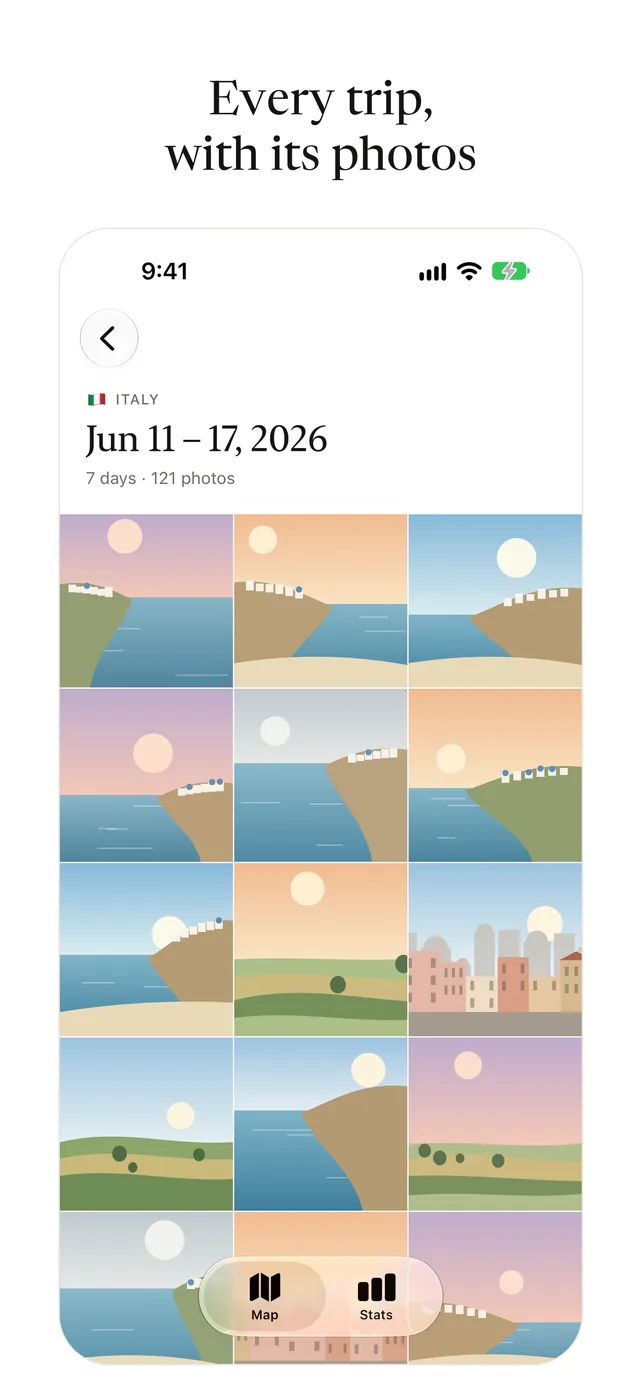
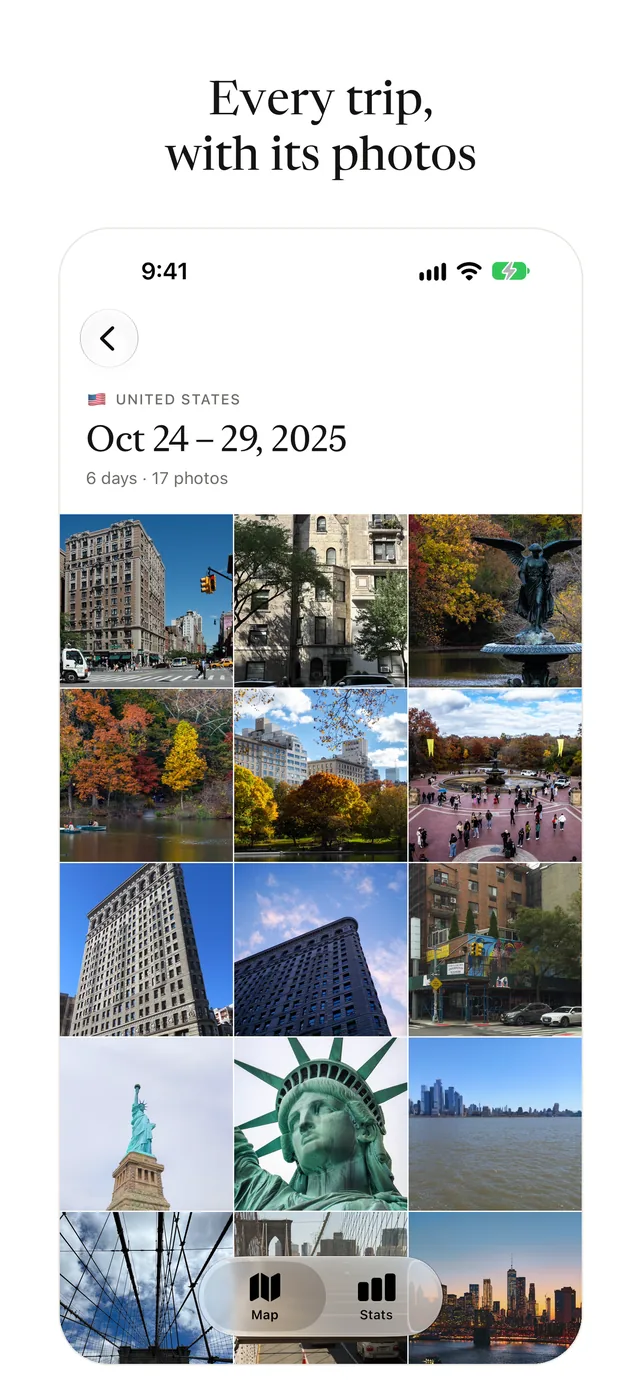
Atlas: the trip screenshot shows a New York trip with public-domain (CC0) photos

diff --git a/atlas/index.html b/atlas/index.html
@@ -185,7 +185,7 @@
           <li><img src="../assets/img/atlas/03.webp?v=df326a5a" width="642" height="1389" alt="Found in your photos, on your iPhone: nothing is uploaded." loading="eager" decoding="async"></li>
           <li><img src="../assets/img/atlas/04.webp?v=37f9a955" width="642" height="1389" alt="Tap any country to see your visits: zoom in anywhere on the map, or switch to the globe." loading="lazy" decoding="async"></li>
           <li><img src="../assets/img/atlas/05.webp?v=92f5ee0b" width="642" height="1389" alt="Each country&#x27;s cities, with your days there: Italy&#x27;s map and its cities." loading="lazy" decoding="async"></li>
-          <li><img src="../assets/img/atlas/06.webp?v=6e19b27f" width="642" height="1389" alt="Every trip, with its photos: each visit&#x27;s dates and pictures." loading="lazy" decoding="async"></li>
+          <li><img src="../assets/img/atlas/06.webp?v=c0855c0a" width="642" height="1389" alt="Every trip, with its photos: a New York trip&#x27;s dates and pictures." loading="lazy" decoding="async"></li>
           <li><img src="../assets/img/atlas/07.webp?v=38e2e612" width="642" height="1389" alt="Your travels, year by year: trips, days away, countries and cities." loading="lazy" decoding="async"></li>
           <li><img src="../assets/img/atlas/08.webp?v=873236ca" width="642" height="1389" alt="Share your map as a Story: a post, one country or a globe video too." loading="lazy" decoding="async"></li>
       </ul>

diff --git a/build.py b/build.py
@@ -687,7 +687,7 @@ APPS = [
             "Found in your photos, on your iPhone: nothing is uploaded.",
             "Tap any country to see your visits: zoom in anywhere on the map, or switch to the globe.",
             "Each country's cities, with your days there: Italy's map and its cities.",
-            "Every trip, with its photos: each visit's dates and pictures.",
+            "Every trip, with its photos: a New York trip's dates and pictures.",
             "Your travels, year by year: trips, days away, countries and cities.",
             "Share your map as a Story: a post, one country or a globe video too.",
         ],
